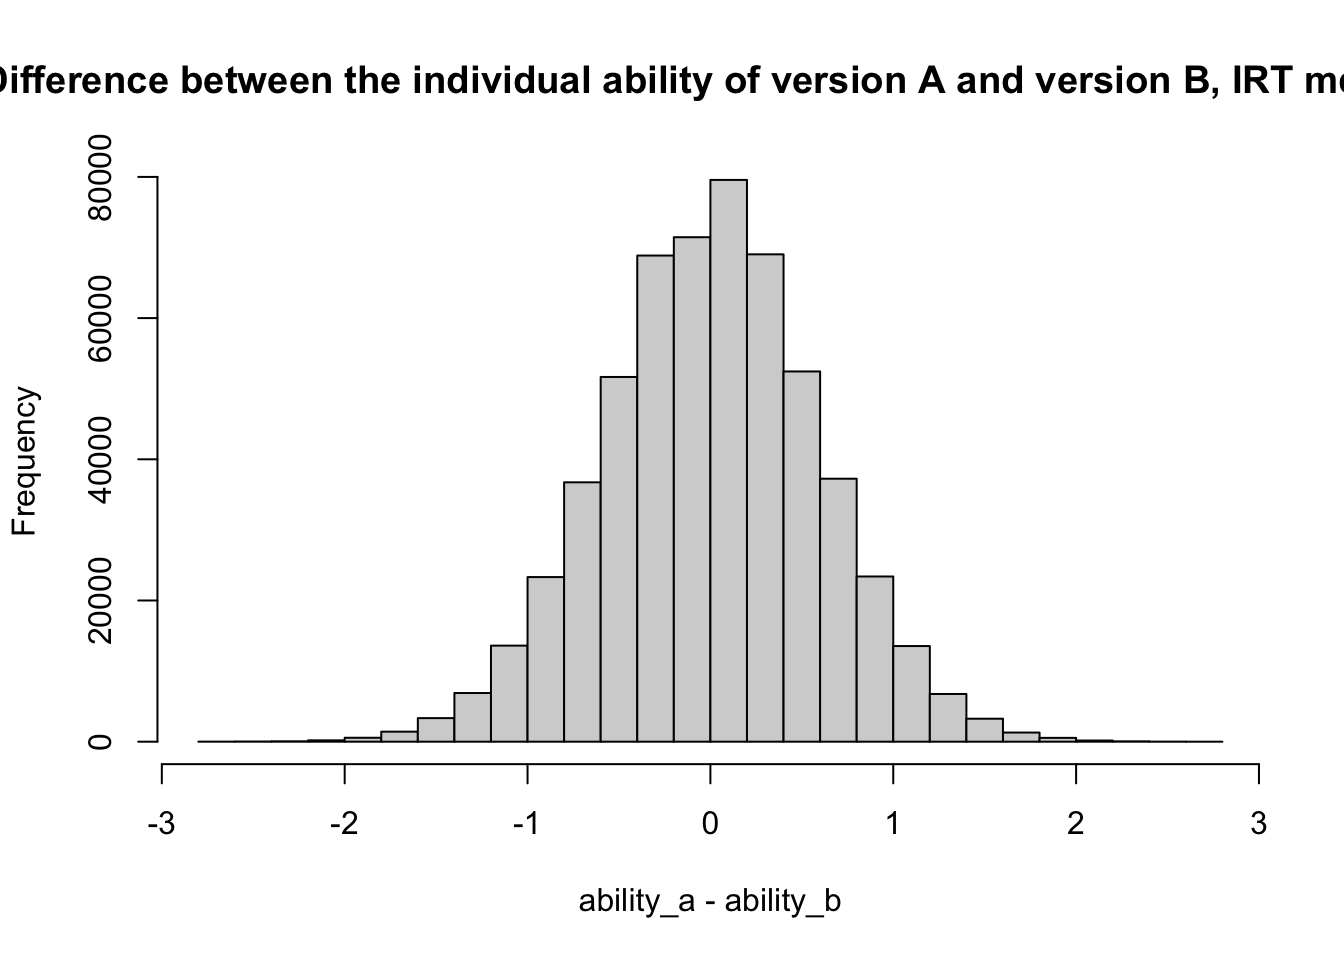
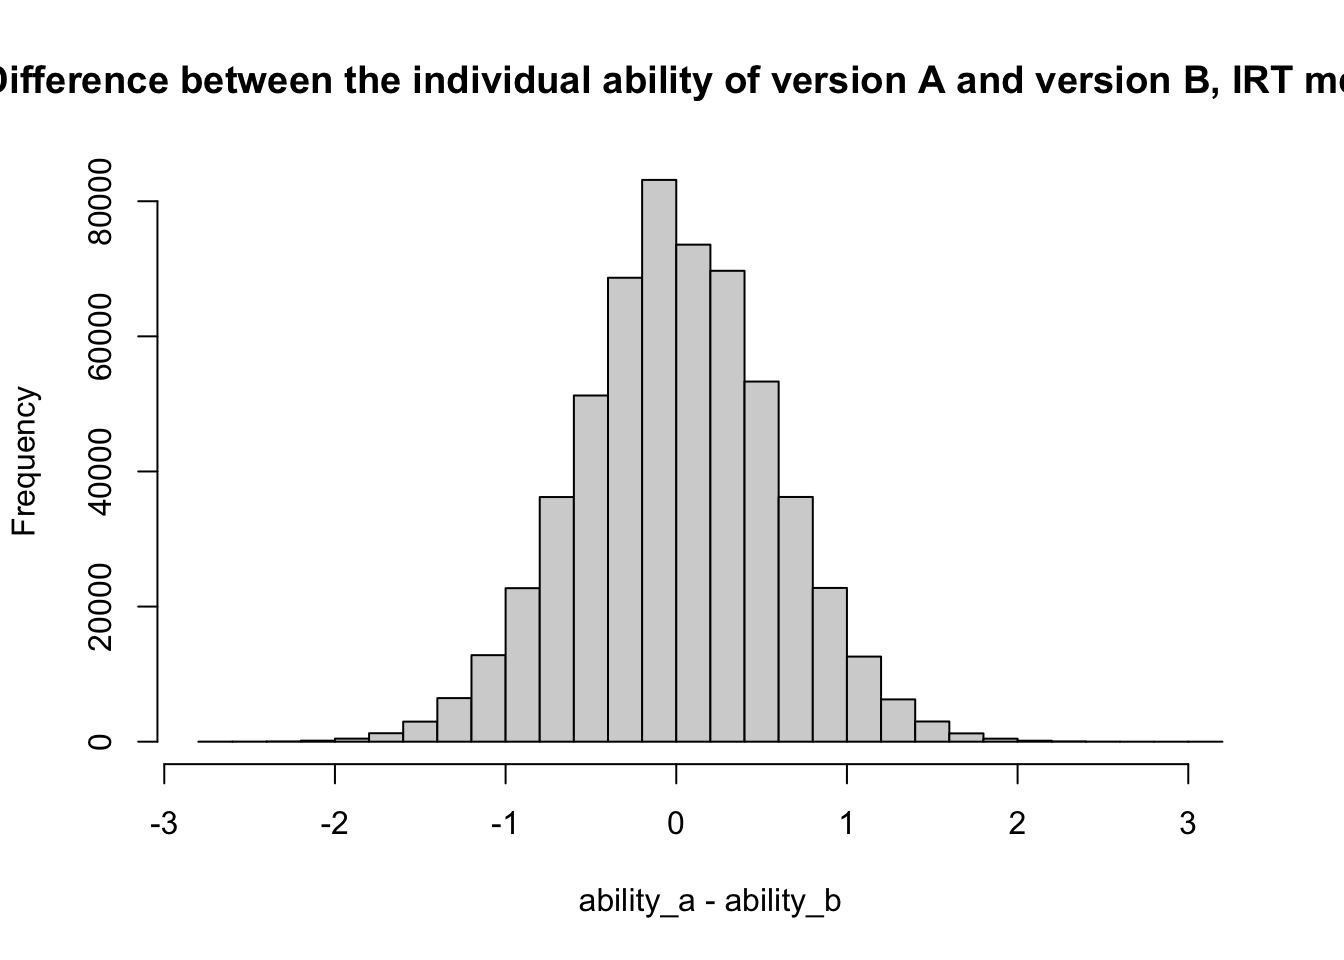
minor adjustment to grammar questions

diff --git a/code/grammar_judgement.html b/code/grammar_judgement.html
@@ -307,10 +307,10 @@ sample estimates:
 <div class="cell">
 <div class="sourceCode cell-code" id="cb29"><pre class="sourceCode r code-with-copy"><code class="sourceCode r"><span id="cb29-1"><a href="#cb29-1" aria-hidden="true" tabindex="-1"></a><span class="co">#based on item parameters, hand pick the items</span></span>
 <span id="cb29-2"><a href="#cb29-2" aria-hidden="true" tabindex="-1"></a>ver1_q <span class="ot">&lt;-</span> <span class="fu">c</span>(<span class="st">"q7"</span>,<span class="st">"q1"</span>,<span class="st">"q2"</span>,</span>
-<span id="cb29-3"><a href="#cb29-3" aria-hidden="true" tabindex="-1"></a>            <span class="st">"q35_2"</span>,<span class="st">"q32_6"</span>,<span class="st">"q34_3"</span>,<span class="st">"q35_1"</span>,<span class="st">"q35_5"</span>,<span class="st">"q33_7"</span>,<span class="st">"q32_8"</span>,<span class="st">"q35_8"</span>,<span class="st">"q34_6"</span>,</span>
+<span id="cb29-3"><a href="#cb29-3" aria-hidden="true" tabindex="-1"></a>            <span class="st">"q35_2"</span>,<span class="st">"q32_6"</span>,<span class="st">"q34_3"</span>,<span class="st">"q35_1"</span>,<span class="st">"q35_5"</span>,<span class="st">"q33_6"</span>,<span class="st">"q32_8"</span>,<span class="st">"q35_8"</span>,<span class="st">"q34_6"</span>,</span>
 <span id="cb29-4"><a href="#cb29-4" aria-hidden="true" tabindex="-1"></a>            <span class="st">"q12"</span>,<span class="st">"q21"</span>,<span class="st">"q23"</span>,<span class="st">"q30"</span>,<span class="st">"q31"</span>,<span class="st">"q19"</span>,<span class="st">"q20"</span>,<span class="st">"q11"</span>,<span class="st">"q27"</span>,<span class="st">"q15"</span>)</span>
 <span id="cb29-5"><a href="#cb29-5" aria-hidden="true" tabindex="-1"></a>ver2_q <span class="ot">&lt;-</span> <span class="fu">c</span>(<span class="st">"q6"</span>, <span class="st">"q5"</span>, <span class="st">"q3"</span>, </span>
-<span id="cb29-6"><a href="#cb29-6" aria-hidden="true" tabindex="-1"></a>            <span class="st">"q34_4"</span>, <span class="st">"q34_8"</span>, <span class="st">"q34_2"</span>, <span class="st">"q35_7"</span>, <span class="st">"q33_4"</span>, <span class="st">"q33_6"</span>, <span class="st">"q35_4"</span>, <span class="st">"q32_5"</span>, <span class="st">"q34_1"</span>, </span>
+<span id="cb29-6"><a href="#cb29-6" aria-hidden="true" tabindex="-1"></a>            <span class="st">"q34_4"</span>, <span class="st">"q34_8"</span>, <span class="st">"q34_2"</span>, <span class="st">"q35_7"</span>, <span class="st">"q33_4"</span>, <span class="st">"q33_7"</span>, <span class="st">"q35_4"</span>, <span class="st">"q32_5"</span>, <span class="st">"q34_1"</span>, </span>
 <span id="cb29-7"><a href="#cb29-7" aria-hidden="true" tabindex="-1"></a>            <span class="st">"q13"</span>, <span class="st">"q25"</span>, <span class="st">"q14"</span>, <span class="st">"q26"</span>, <span class="st">"q22"</span>, <span class="st">"q16"</span>, <span class="st">"q17"</span>, <span class="st">"q18"</span>, <span class="st">"q24"</span>, <span class="st">"q29"</span>)</span></code><button title="Copy to Clipboard" class="code-copy-button"><i class="bi"></i></button></pre></div>
 </div>
 <section id="validation-the-parallel-tests" class="level3">
@@ -324,56 +324,60 @@ sample estimates:
 <span id="cb30-6"><a href="#cb30-6" aria-hidden="true" tabindex="-1"></a>model_a <span class="ot">&lt;-</span> <span class="fu">mirt</span>(data_a, <span class="dv">1</span>, <span class="at">itemtype =</span> item_types_p, <span class="at">SE=</span><span class="cn">TRUE</span>)</span></code><button title="Copy to Clipboard" class="code-copy-button"><i class="bi"></i></button></pre></div>
 <div class="cell-output cell-output-stdout">
 <pre><code>
-Iteration: 1, Log-Lik: -6398960.372, Max-Change: 2.07454
-Iteration: 2, Log-Lik: -5987287.298, Max-Change: 2.33951
-Iteration: 3, Log-Lik: -5848100.384, Max-Change: 0.38231
-Iteration: 4, Log-Lik: -5820207.214, Max-Change: 0.43068
-Iteration: 5, Log-Lik: -5811671.569, Max-Change: 0.24150
-Iteration: 6, Log-Lik: -5808887.906, Max-Change: 0.24055
-Iteration: 7, Log-Lik: -5807850.933, Max-Change: 0.17854
-Iteration: 8, Log-Lik: -5807404.965, Max-Change: 0.19655
-Iteration: 9, Log-Lik: -5807188.928, Max-Change: 0.16184
-Iteration: 10, Log-Lik: -5807052.108, Max-Change: 0.11591
-Iteration: 11, Log-Lik: -5806948.083, Max-Change: 0.10260
-Iteration: 12, Log-Lik: -5806870.937, Max-Change: 0.10750
-Iteration: 13, Log-Lik: -5806813.837, Max-Change: 0.20208
-Iteration: 14, Log-Lik: -5806759.559, Max-Change: 0.06883
-Iteration: 15, Log-Lik: -5806697.679, Max-Change: 0.10349
-Iteration: 16, Log-Lik: -5806663.939, Max-Change: 0.05963
-Iteration: 17, Log-Lik: -5806642.507, Max-Change: 0.13461
-Iteration: 18, Log-Lik: -5806620.077, Max-Change: 0.05715
-Iteration: 19, Log-Lik: -5806596.263, Max-Change: 0.06963
-Iteration: 20, Log-Lik: -5806578.662, Max-Change: 0.04262
-Iteration: 21, Log-Lik: -5806566.674, Max-Change: 0.06564
-Iteration: 22, Log-Lik: -5806555.061, Max-Change: 0.04246
-Iteration: 23, Log-Lik: -5806545.954, Max-Change: 0.04894
-Iteration: 24, Log-Lik: -5806539.526, Max-Change: 0.03747
-Iteration: 25, Log-Lik: -5806531.772, Max-Change: 0.04496
-Iteration: 26, Log-Lik: -5806525.069, Max-Change: 0.03608
-Iteration: 27, Log-Lik: -5806519.068, Max-Change: 0.02995
-Iteration: 28, Log-Lik: -5806513.280, Max-Change: 0.02919
-Iteration: 29, Log-Lik: -5806508.281, Max-Change: 0.04438
-Iteration: 30, Log-Lik: -5806503.474, Max-Change: 0.02759
-Iteration: 31, Log-Lik: -5806499.137, Max-Change: 0.02597
-Iteration: 32, Log-Lik: -5806495.127, Max-Change: 0.02532
-Iteration: 33, Log-Lik: -5806491.763, Max-Change: 0.02329
-Iteration: 34, Log-Lik: -5806488.765, Max-Change: 0.03065
-Iteration: 35, Log-Lik: -5806485.563, Max-Change: 0.02269
-Iteration: 36, Log-Lik: -5806482.832, Max-Change: 0.04726
-Iteration: 37, Log-Lik: -5806480.449, Max-Change: 0.02632
-Iteration: 38, Log-Lik: -5806474.898, Max-Change: 0.00022
-Iteration: 39, Log-Lik: -5806474.865, Max-Change: 0.00044
-Iteration: 40, Log-Lik: -5806474.832, Max-Change: 0.00022
-Iteration: 41, Log-Lik: -5806474.799, Max-Change: 0.00035
-Iteration: 42, Log-Lik: -5806474.781, Max-Change: 0.00017
-Iteration: 43, Log-Lik: -5806474.774, Max-Change: 0.00014
-Iteration: 44, Log-Lik: -5806474.758, Max-Change: 0.00024
-Iteration: 45, Log-Lik: -5806474.735, Max-Change: 0.00010
-Iteration: 46, Log-Lik: -5806474.732, Max-Change: 0.00042
-Iteration: 47, Log-Lik: -5806474.723, Max-Change: 0.00021
-Iteration: 48, Log-Lik: -5806474.698, Max-Change: 0.00034
-Iteration: 49, Log-Lik: -5806474.696, Max-Change: 0.00026
-Iteration: 50, Log-Lik: -5806474.657, Max-Change: 0.00009
+Iteration: 1, Log-Lik: -6333784.681, Max-Change: 2.29930
+Iteration: 2, Log-Lik: -5914881.855, Max-Change: 2.73470
+Iteration: 3, Log-Lik: -5777840.938, Max-Change: 0.31704
+Iteration: 4, Log-Lik: -5749574.071, Max-Change: 0.45723
+Iteration: 5, Log-Lik: -5740633.203, Max-Change: 0.36169
+Iteration: 6, Log-Lik: -5737920.996, Max-Change: 0.21058
+Iteration: 7, Log-Lik: -5736810.392, Max-Change: 0.20605
+Iteration: 8, Log-Lik: -5736347.516, Max-Change: 0.16076
+Iteration: 9, Log-Lik: -5736146.181, Max-Change: 0.13913
+Iteration: 10, Log-Lik: -5736013.411, Max-Change: 0.22459
+Iteration: 11, Log-Lik: -5735926.166, Max-Change: 0.09105
+Iteration: 12, Log-Lik: -5735858.550, Max-Change: 0.12316
+Iteration: 13, Log-Lik: -5735807.895, Max-Change: 0.09909
+Iteration: 14, Log-Lik: -5735762.932, Max-Change: 0.10679
+Iteration: 15, Log-Lik: -5735731.996, Max-Change: 0.07241
+Iteration: 16, Log-Lik: -5735707.517, Max-Change: 0.12285
+Iteration: 17, Log-Lik: -5735689.614, Max-Change: 0.05511
+Iteration: 18, Log-Lik: -5735664.748, Max-Change: 0.07757
+Iteration: 19, Log-Lik: -5735647.266, Max-Change: 0.04738
+Iteration: 20, Log-Lik: -5735634.055, Max-Change: 0.05663
+Iteration: 21, Log-Lik: -5735620.757, Max-Change: 0.04168
+Iteration: 22, Log-Lik: -5735610.280, Max-Change: 0.04835
+Iteration: 23, Log-Lik: -5735600.547, Max-Change: 0.03575
+Iteration: 24, Log-Lik: -5735592.196, Max-Change: 0.04322
+Iteration: 25, Log-Lik: -5735584.050, Max-Change: 0.03234
+Iteration: 26, Log-Lik: -5735576.990, Max-Change: 0.03980
+Iteration: 27, Log-Lik: -5735569.773, Max-Change: 0.03498
+Iteration: 28, Log-Lik: -5735563.775, Max-Change: 0.02837
+Iteration: 29, Log-Lik: -5735558.538, Max-Change: 0.03333
+Iteration: 30, Log-Lik: -5735553.700, Max-Change: 0.02639
+Iteration: 31, Log-Lik: -5735549.210, Max-Change: 0.03080
+Iteration: 32, Log-Lik: -5735544.908, Max-Change: 0.02634
+Iteration: 33, Log-Lik: -5735541.051, Max-Change: 0.02950
+Iteration: 34, Log-Lik: -5735537.263, Max-Change: 0.02121
+Iteration: 35, Log-Lik: -5735533.784, Max-Change: 0.03148
+Iteration: 36, Log-Lik: -5735530.319, Max-Change: 0.02022
+Iteration: 37, Log-Lik: -5735527.585, Max-Change: 0.00422
+Iteration: 38, Log-Lik: -5735526.873, Max-Change: 0.00049
+Iteration: 39, Log-Lik: -5735526.716, Max-Change: 0.00015
+Iteration: 40, Log-Lik: -5735526.714, Max-Change: 0.00014
+Iteration: 41, Log-Lik: -5735526.700, Max-Change: 0.00030
+Iteration: 42, Log-Lik: -5735526.671, Max-Change: 0.00046
+Iteration: 43, Log-Lik: -5735526.656, Max-Change: 0.00018
+Iteration: 44, Log-Lik: -5735526.637, Max-Change: 0.00032
+Iteration: 45, Log-Lik: -5735526.616, Max-Change: 0.00014
+Iteration: 46, Log-Lik: -5735526.611, Max-Change: 0.00011
+Iteration: 47, Log-Lik: -5735526.600, Max-Change: 0.00022
+Iteration: 48, Log-Lik: -5735526.576, Max-Change: 0.00045
+Iteration: 49, Log-Lik: -5735526.565, Max-Change: 0.00020
+Iteration: 50, Log-Lik: -5735526.542, Max-Change: 0.00035
+Iteration: 51, Log-Lik: -5735526.524, Max-Change: 0.00016
+Iteration: 52, Log-Lik: -5735526.519, Max-Change: 0.00013
+Iteration: 53, Log-Lik: -5735526.506, Max-Change: 0.00023
+Iteration: 54, Log-Lik: -5735526.483, Max-Change: 0.00010
 
 Calculating information matrix...</code></pre>
 </div>
@@ -384,42 +388,70 @@ Calculating information matrix...</code></pre>
 <span id="cb32-5"><a href="#cb32-5" aria-hidden="true" tabindex="-1"></a>model_b <span class="ot">&lt;-</span> <span class="fu">mirt</span>(data_b, <span class="dv">1</span>, <span class="at">itemtype =</span> item_types_p, <span class="at">SE=</span><span class="cn">TRUE</span>)</span></code><button title="Copy to Clipboard" class="code-copy-button"><i class="bi"></i></button></pre></div>
 <div class="cell-output cell-output-stdout">
 <pre><code>
-Iteration: 1, Log-Lik: -6362804.029, Max-Change: 5.14692
-Iteration: 2, Log-Lik: -5986568.670, Max-Change: 1.12882
-Iteration: 3, Log-Lik: -5868784.712, Max-Change: 1.18852
-Iteration: 4, Log-Lik: -5842870.293, Max-Change: 0.94155
-Iteration: 5, Log-Lik: -5835217.489, Max-Change: 1.10718
-Iteration: 6, Log-Lik: -5831972.384, Max-Change: 0.63998
-Iteration: 7, Log-Lik: -5830351.941, Max-Change: 0.76382
-Iteration: 8, Log-Lik: -5829327.828, Max-Change: 0.32214
-Iteration: 9, Log-Lik: -5828803.221, Max-Change: 0.21274
-Iteration: 10, Log-Lik: -5828483.195, Max-Change: 0.14875
-Iteration: 11, Log-Lik: -5828288.494, Max-Change: 0.14127
-Iteration: 12, Log-Lik: -5828155.176, Max-Change: 0.12340
-Iteration: 13, Log-Lik: -5828054.358, Max-Change: 0.11819
-Iteration: 14, Log-Lik: -5827986.746, Max-Change: 0.10520
-Iteration: 15, Log-Lik: -5827930.701, Max-Change: 0.14016
-Iteration: 16, Log-Lik: -5827894.708, Max-Change: 0.06200
-Iteration: 17, Log-Lik: -5827863.400, Max-Change: 0.11738
-Iteration: 18, Log-Lik: -5827837.182, Max-Change: 0.04457
-Iteration: 19, Log-Lik: -5827816.690, Max-Change: 0.14973
-Iteration: 20, Log-Lik: -5827790.060, Max-Change: 0.03340
-Iteration: 21, Log-Lik: -5827772.701, Max-Change: 0.28074
-Iteration: 22, Log-Lik: -5827750.061, Max-Change: 0.03885
-Iteration: 23, Log-Lik: -5827723.307, Max-Change: 0.12319
-Iteration: 24, Log-Lik: -5827709.052, Max-Change: 0.02923
-Iteration: 25, Log-Lik: -5827700.446, Max-Change: 0.00139
-Iteration: 26, Log-Lik: -5827699.128, Max-Change: 0.00133
-Iteration: 27, Log-Lik: -5827698.380, Max-Change: 0.00065
-Iteration: 28, Log-Lik: -5827697.691, Max-Change: 0.00052
-Iteration: 29, Log-Lik: -5827697.471, Max-Change: 0.00028
-Iteration: 30, Log-Lik: -5827697.404, Max-Change: 0.00011
-Iteration: 31, Log-Lik: -5827697.358, Max-Change: 0.00036
-Iteration: 32, Log-Lik: -5827697.254, Max-Change: 0.00030
-Iteration: 33, Log-Lik: -5827697.188, Max-Change: 0.00027
-Iteration: 34, Log-Lik: -5827697.136, Max-Change: 0.00012
-Iteration: 35, Log-Lik: -5827697.117, Max-Change: 0.00024
-Iteration: 36, Log-Lik: -5827697.087, Max-Change: 0.00010
+Iteration: 1, Log-Lik: -6434390.016, Max-Change: 6.72942
+Iteration: 2, Log-Lik: -6060479.421, Max-Change: 2.29627
+Iteration: 3, Log-Lik: -5954165.366, Max-Change: 1.11347
+Iteration: 4, Log-Lik: -5928328.802, Max-Change: 0.75412
+Iteration: 5, Log-Lik: -5917509.017, Max-Change: 1.26792
+Iteration: 6, Log-Lik: -5913470.267, Max-Change: 1.07767
+Iteration: 7, Log-Lik: -5910793.930, Max-Change: 0.85294
+Iteration: 8, Log-Lik: -5909375.711, Max-Change: 0.88615
+Iteration: 9, Log-Lik: -5908189.643, Max-Change: 0.60593
+Iteration: 10, Log-Lik: -5907558.526, Max-Change: 0.34574
+Iteration: 11, Log-Lik: -5907254.645, Max-Change: 0.16599
+Iteration: 12, Log-Lik: -5907132.936, Max-Change: 0.13938
+Iteration: 13, Log-Lik: -5907038.526, Max-Change: 0.11470
+Iteration: 14, Log-Lik: -5906976.053, Max-Change: 0.08632
+Iteration: 15, Log-Lik: -5906933.088, Max-Change: 0.09225
+Iteration: 16, Log-Lik: -5906901.374, Max-Change: 0.06738
+Iteration: 17, Log-Lik: -5906875.141, Max-Change: 0.10317
+Iteration: 18, Log-Lik: -5906856.864, Max-Change: 0.04218
+Iteration: 19, Log-Lik: -5906841.462, Max-Change: 0.06920
+Iteration: 20, Log-Lik: -5906827.590, Max-Change: 0.04099
+Iteration: 21, Log-Lik: -5906817.248, Max-Change: 0.05953
+Iteration: 22, Log-Lik: -5906808.106, Max-Change: 0.04866
+Iteration: 23, Log-Lik: -5906801.283, Max-Change: 0.04629
+Iteration: 24, Log-Lik: -5906794.246, Max-Change: 0.05587
+Iteration: 25, Log-Lik: -5906786.567, Max-Change: 0.03685
+Iteration: 26, Log-Lik: -5906780.760, Max-Change: 0.00203
+Iteration: 27, Log-Lik: -5906778.817, Max-Change: 0.08231
+Iteration: 28, Log-Lik: -5906772.770, Max-Change: 0.02858
+Iteration: 29, Log-Lik: -5906767.637, Max-Change: 0.00292
+Iteration: 30, Log-Lik: -5906765.495, Max-Change: 0.00076
+Iteration: 31, Log-Lik: -5906765.382, Max-Change: 0.00058
+Iteration: 32, Log-Lik: -5906765.128, Max-Change: 0.00034
+Iteration: 33, Log-Lik: -5906765.045, Max-Change: 0.00014
+Iteration: 34, Log-Lik: -5906764.990, Max-Change: 0.00042
+Iteration: 35, Log-Lik: -5906764.865, Max-Change: 0.00033
+Iteration: 36, Log-Lik: -5906764.788, Max-Change: 0.00039
+Iteration: 37, Log-Lik: -5906764.729, Max-Change: 0.00017
+Iteration: 38, Log-Lik: -5906764.705, Max-Change: 0.00031
+Iteration: 39, Log-Lik: -5906764.669, Max-Change: 0.00013
+Iteration: 40, Log-Lik: -5906764.665, Max-Change: 0.00011
+Iteration: 41, Log-Lik: -5906764.651, Max-Change: 0.00032
+Iteration: 42, Log-Lik: -5906764.617, Max-Change: 0.00042
+Iteration: 43, Log-Lik: -5906764.597, Max-Change: 0.00019
+Iteration: 44, Log-Lik: -5906764.574, Max-Change: 0.00038
+Iteration: 45, Log-Lik: -5906764.551, Max-Change: 0.00015
+Iteration: 46, Log-Lik: -5906764.546, Max-Change: 0.00012
+Iteration: 47, Log-Lik: -5906764.533, Max-Change: 0.00030
+Iteration: 48, Log-Lik: -5906764.506, Max-Change: 0.00048
+Iteration: 49, Log-Lik: -5906764.493, Max-Change: 0.00020
+Iteration: 50, Log-Lik: -5906764.470, Max-Change: 0.00038
+Iteration: 51, Log-Lik: -5906764.451, Max-Change: 0.00016
+Iteration: 52, Log-Lik: -5906764.446, Max-Change: 0.00013
+Iteration: 53, Log-Lik: -5906764.433, Max-Change: 0.00032
+Iteration: 54, Log-Lik: -5906764.409, Max-Change: 0.00010
+Iteration: 55, Log-Lik: -5906764.406, Max-Change: 0.00041
+Iteration: 56, Log-Lik: -5906764.392, Max-Change: 0.00019
+Iteration: 57, Log-Lik: -5906764.372, Max-Change: 0.00037
+Iteration: 58, Log-Lik: -5906764.359, Max-Change: 0.00024
+Iteration: 59, Log-Lik: -5906764.330, Max-Change: 0.00041
+Iteration: 60, Log-Lik: -5906764.317, Max-Change: 0.00019
+Iteration: 61, Log-Lik: -5906764.309, Max-Change: 0.00015
+Iteration: 62, Log-Lik: -5906764.295, Max-Change: 0.00034
+Iteration: 63, Log-Lik: -5906764.274, Max-Change: 0.00012
+Iteration: 64, Log-Lik: -5906764.270, Max-Change: 0.00009
 
 Calculating information matrix...</code></pre>
 </div>
@@ -460,7 +492,7 @@ Calculating information matrix...</code></pre>
 <span id="cb36-5"><a href="#cb36-5" aria-hidden="true" tabindex="-1"></a><span class="co">#        x = "Ability Estimates from Version A",</span></span>
 <span id="cb36-6"><a href="#cb36-6" aria-hidden="true" tabindex="-1"></a><span class="co">#        y = "Ability Estimates from Version B")</span></span></code><button title="Copy to Clipboard" class="code-copy-button"><i class="bi"></i></button></pre></div>
 </div>
-<p>the correlation between participants abilities from version a and version b is 0.7531883. The correlation is significant, 0. The histogram of the difference between the ability estimates from version A and version B is shown above. The histogram of the difference between the individual’s accuracy from version A and version B is shown above. The differences between the ability estimates and the accuracy of version A and version B are symmetrically distributed around 0, indicating that the two versions are parallel.</p>
+<p>the correlation between participants abilities from version a and version b is 0.7635941. The correlation is significant, 0. The histogram of the difference between the ability estimates from version A and version B is shown above. The histogram of the difference between the individual’s accuracy from version A and version B is shown above. The differences between the ability estimates and the accuracy of version A and version B are symmetrically distributed around 0, indicating that the two versions are parallel.</p>
 </section>
 </section>
 </section>
